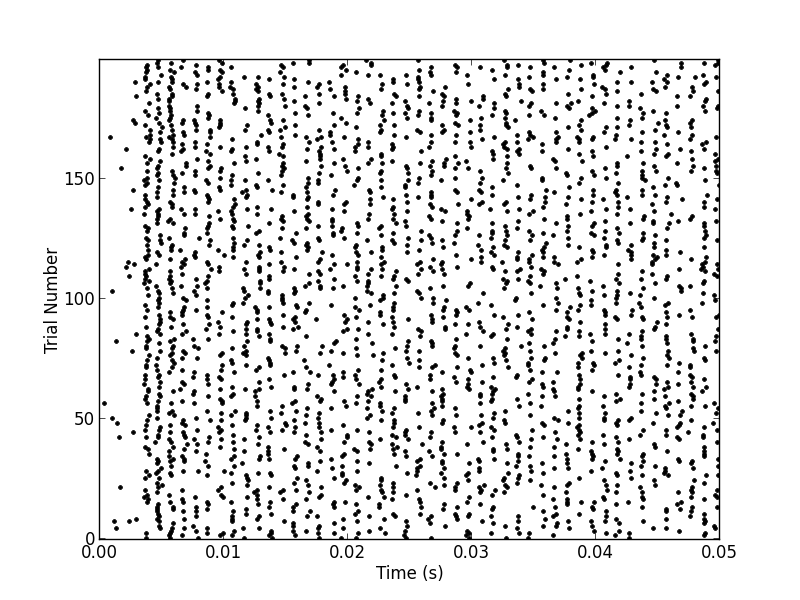
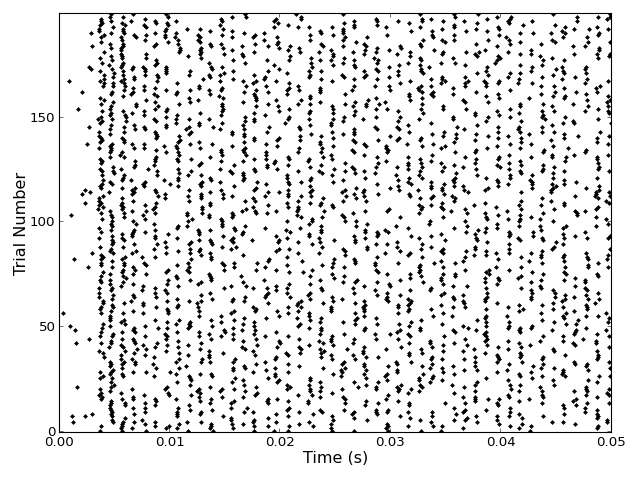
raster example

Changed region(s): [[0.0, 0.0312, 0.9688, 0.9688], [0.0938, 0.7812, 0.125, 0.8125], [0.0938, 0.1562, 0.125, 0.1875]]

diff --git a/examples/plot_spikes.py b/examples/plot_spikes.py
@@ -46,7 +46,9 @@ def main():
     ### Save the plot, if doesn't exist
     fname = "raster.png"
     if not os.path.exists(fname):
-        plt.savefig(fname)
+        plt.grid('off')
+        plt.tight_layout()
+        plt.savefig(fname, dpi=80)
 
 
     ### Show the plot
